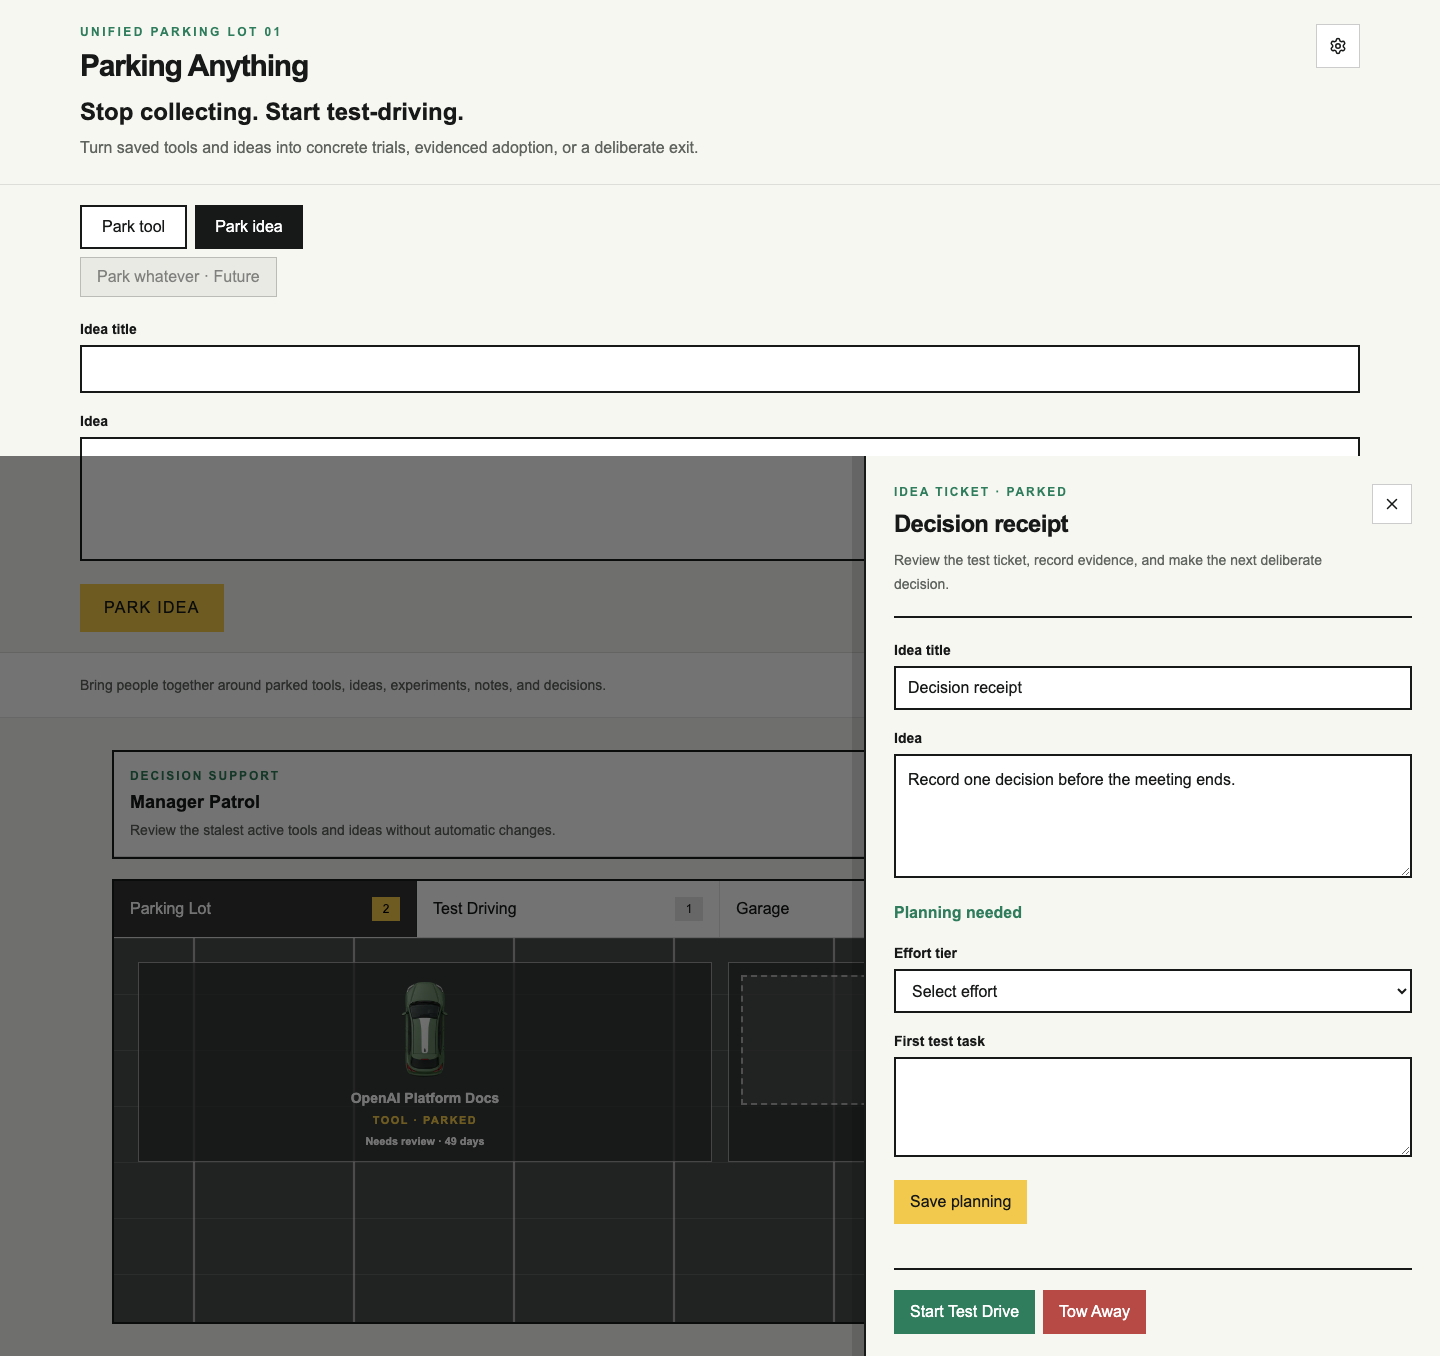
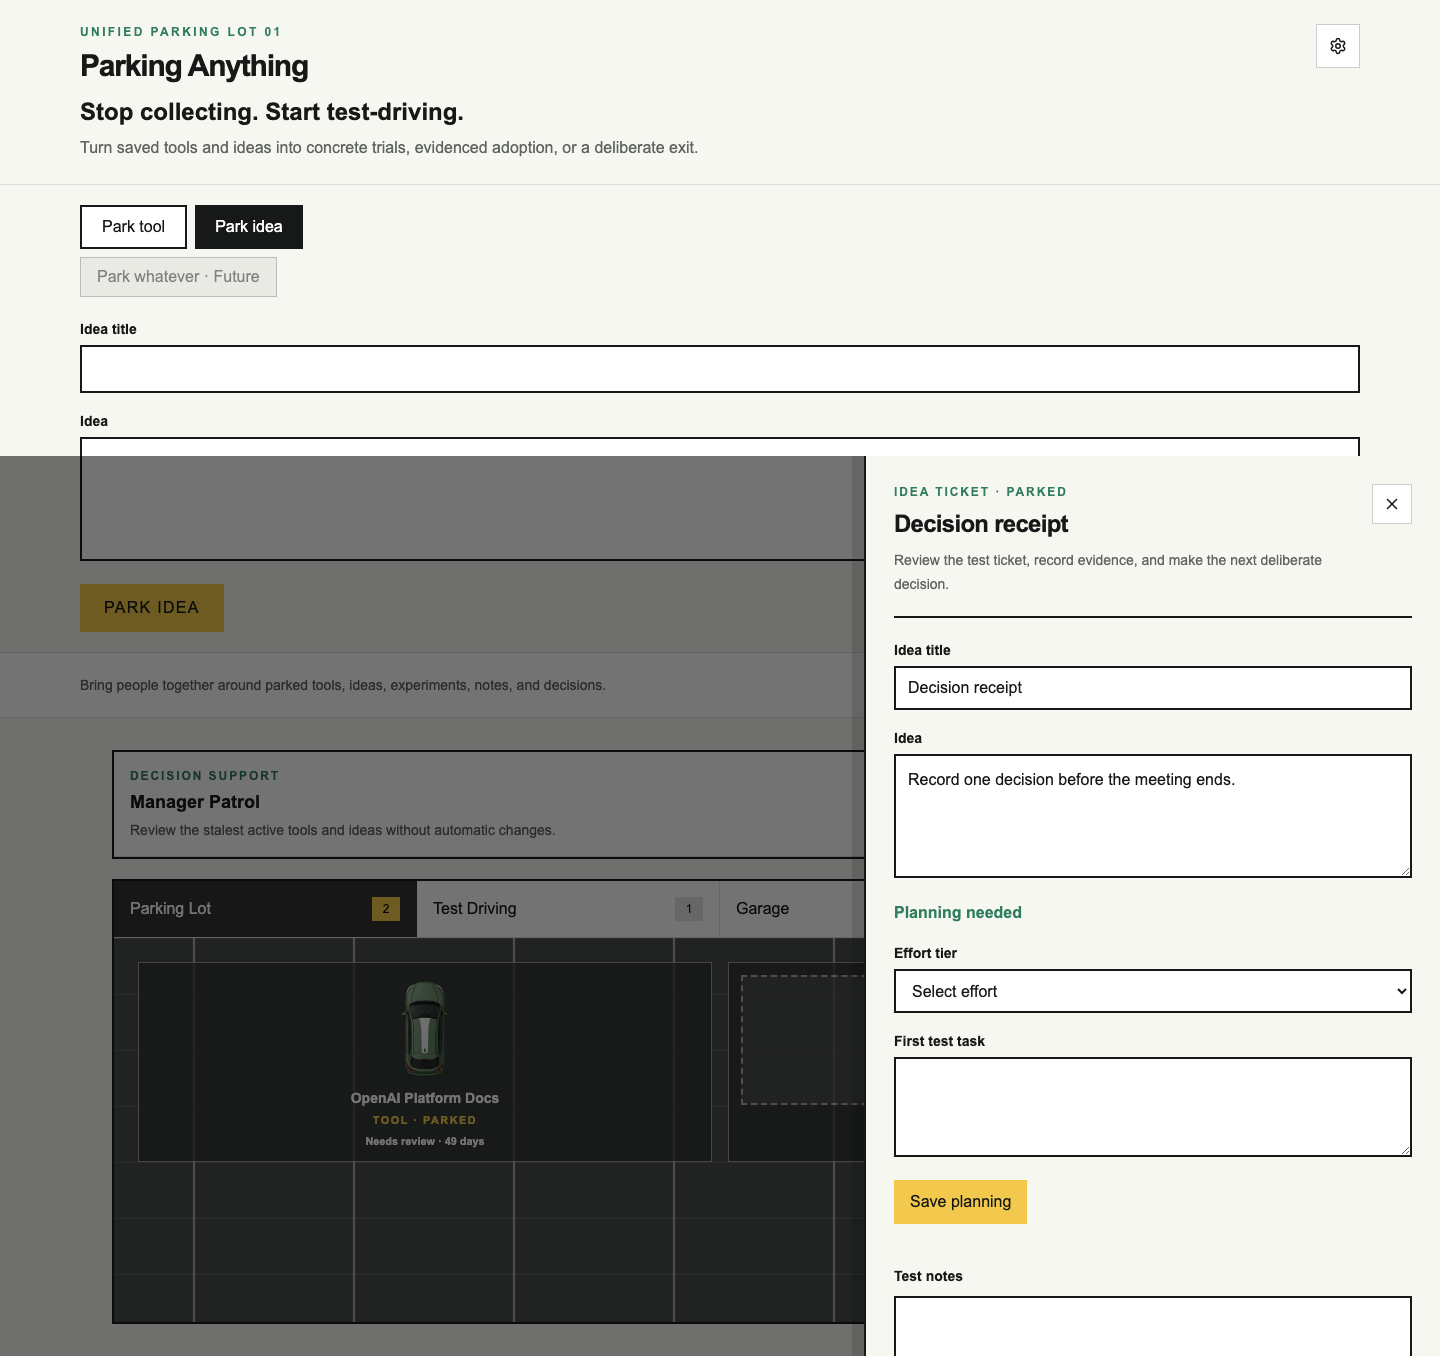
fix: edit parked idea evidence

Changed region(s): [[0.5938, 0.9292, 0.8125, 0.9912]]

diff --git a/src/components/parking/item-inspector.test.tsx b/src/components/parking/item-inspector.test.tsx
@@ -15,16 +15,18 @@ const evidenceFreeDrive: ParkingItem = {
 function renderInspector(
   item: ParkingItem,
   onApplyAction = vi.fn().mockReturnValue({ ok: true }),
+  onUpdateEvidence = vi.fn().mockReturnValue({ ok: true }),
 ) {
   return {
     onApplyAction,
+    onUpdateEvidence,
     ...render(
       <ItemInspector
         item={item}
         open
         onOpenChange={vi.fn()}
         onApplyAction={onApplyAction}
-        onUpdateEvidence={vi.fn().mockReturnValue({ ok: true })}
+        onUpdateEvidence={onUpdateEvidence}
         onUpdateIdea={vi.fn().mockReturnValue({ ok: true })}
       />,
     ),
@@ -98,6 +100,32 @@ describe("ItemInspector", () => {
     expect(screen.getByText("Planning needed")).toBeVisible();
     expect(screen.queryByText("What it appears to do")).not.toBeInTheDocument();
     expect(screen.queryByText("Usefulness hypothesis")).not.toBeInTheDocument();
+  });
+
+  it("edits evidence for a parked Idea while preserving parked Tool behavior", async () => {
+    const user = userEvent.setup();
+    const idea: ParkingItem = {
+      id: "idea-evidence",
+      kind: "idea",
+      status: "parked",
+      title: "Capture evidence early",
+      ideaText: "Record useful context before a formal test starts.",
+      createdAt: "2026-07-20T00:00:00.000Z",
+      updatedAt: "2026-07-20T00:00:00.000Z",
+      lastActivityAt: "2026-07-20T00:00:00.000Z",
+    };
+    const { onUpdateEvidence, unmount } = renderInspector(idea);
+
+    await user.type(screen.getByLabelText("Test notes"), "Early supporting evidence.");
+    await user.tab();
+
+    expect(onUpdateEvidence).toHaveBeenCalledWith("Early supporting evidence.", "");
+    expect(screen.getByLabelText("Result URL")).toBeVisible();
+
+    unmount();
+    renderInspector(makeSeedItems()[0]);
+    expect(screen.queryByLabelText("Test notes")).not.toBeInTheDocument();
+    expect(screen.queryByLabelText("Result URL")).not.toBeInTheDocument();
   });
 
   it("focuses the first missing planning field without starting Test Drive", async () => {

diff --git a/src/components/parking/item-inspector.tsx b/src/components/parking/item-inspector.tsx
@@ -70,6 +70,9 @@ function ItemInspectorContent({ item, open, onOpenChange, onApplyAction, onUpdat
 
   const terminal = item.status === "garaged" || item.status === "scrapped";
   const ideaReady = item.kind !== "idea" || Boolean(item.effortTier && item.suggestedTestTask?.trim());
+  const evidenceEditable =
+    item.status === "test_driving" ||
+    (item.kind === "idea" && item.status === "parked");
 
   function focusMissingPlanning() {
     setValidationMessage("Add an effort tier and first test task before starting a Test Drive.");
@@ -92,7 +95,7 @@ function ItemInspectorContent({ item, open, onOpenChange, onApplyAction, onUpdat
   }
 
   function persistEvidenceIfChanged() {
-    if (item.status !== "test_driving") return;
+    if (!evidenceEditable) return;
     const nextNotes = notes.trim();
     const nextResultUrl = resultUrl.trim();
     if (!validOptionalHttpUrl(nextResultUrl)) {
@@ -167,7 +170,7 @@ function ItemInspectorContent({ item, open, onOpenChange, onApplyAction, onUpdat
             </section>
           )}
 
-          {item.status === "test_driving" ? (
+          {evidenceEditable ? (
             <section className="space-y-4 py-5">
               <div><label htmlFor="test-notes" className="text-sm font-black">Test notes</label><textarea id="test-notes" value={notes} maxLength={2000} rows={5} onChange={(event) => setNotes(event.target.value)} onBlur={persistEvidenceIfChanged} className="mt-2 w-full resize-y border-2 border-[var(--ink)] bg-white p-3" /></div>
               <div><label htmlFor="result-url" className="text-sm font-black">Result URL</label><input id="result-url" type="url" value={resultUrl} maxLength={2048} onChange={(event) => setResultUrl(event.target.value)} onBlur={persistEvidenceIfChanged} className="mt-2 h-11 w-full border-2 border-[var(--ink)] bg-white px-3" /></div>

diff --git a/docs/build-log.md b/docs/build-log.md
@@ -263,3 +263,10 @@ The dedicated event key was entered locally by the user and remained server-only
 - Added a 118-second English judge runbook that demonstrates real GPT-5.6 Tool Structured Outputs, AI-independent Idea capture, same-record planning, mixed Patrol fact/recommendation provenance, shared Garage/Scrapyard outcomes, and the disabled Park whatever/Gather extension points. The `/feedback` Session ID remains human-only submission evidence and is excluded from narration.
 - Ran every documented setup command without exposing secrets: `npm install` completed, `cp -n .env.example .env.local` preserved any existing file, and `npm run dev -- --port 3107` served the v0.5 worktree with HTTP 200. The generated lockfile metadata-only drift from npm was discarded; no dependency version changed.
 - Rehearsed every visible narration action through the verified Tool judge flow and unified Idea visual journey. A fresh README verification gate passed lint, 23 files and 212 unit tests, 25 cross-browser E2E tests with three documented screenshot-only skips, and the production build with both AI routes present.
+
+### 2026-07-20 — v0.5 independent Claude release review and correction
+
+- Used the user-requested ModelNexus Claude reviewer against the complete authoritative spec, plan, and `3d88380..HEAD` implementation. The first read-only review returned `FAIL` for one verified medium spec gap: the store permitted parked-Idea evidence edits, but the inspector rendered notes and Result URL only during Test Drive.
+- Applied RED-GREEN TDD with a parked-Idea evidence regression and parked-Tool non-regression. A shared `evidenceEditable` predicate now governs both rendering and persistence: parked/test-driving Ideas can edit evidence; AI Tools retain their existing Test-Drive-only evidence UI; garaged and scrapped records remain read-only.
+- Focused inspector verification passed 9/9 tests. The complete correction gate passed 23 files and 213 unit tests, lint, 25 applicable desktop/mobile E2E tests with three documented screenshot-only skips, and the production build. Four affected planned/unplanned inspector PNGs were refreshed and visually re-inspected without layout regression.
+- A second read-only Claude review inspected the corrected diff, persistence callback, store compatibility, Tool and terminal boundaries, refreshed screenshots, and test expansion. It returned explicit `PASS` with no release-blocking issues. No GitHub, Vercel, tag, or production operation occurred before that PASS.

diff --git a/docs/qa-checklist.md b/docs/qa-checklist.md
@@ -43,6 +43,7 @@ Inspect initial lot, inspector open, patrol results, Garage filter, and Scrapyar
 - [x] Idea capture -> planning -> Test Drive -> Garage preserves one record and ID.
 - [x] An unplanned Idea can move directly to the shared Scrapyard.
 - [x] Mixed Patrol opens and focuses planning without mutation, then starts Test Drive after valid planning.
+- [x] A parked Idea can edit notes and Result URL while a parked Tool retains the unchanged v0.4 evidence boundary.
 - [x] The complete v0.4 Tool analysis, evidence, Garage, Tow Away, reset, reload, quota, provenance, and accessibility paths still pass.
 - [x] Desktop Chromium and Mobile Safari report no unexpected console or page errors.
 - [x] Every tested state asserts no horizontal page overflow.
@@ -66,3 +67,4 @@ Inspected nine states at 1440x900, 1024x768, and 390x844 under the `v0.5-*` file
 - The initial desktop run correctly exposed one stale keyboard-order assertion after the new capture tabs entered the tab sequence; the corrected order verifies Settings -> active capture tab -> active form input -> submit.
 - Contact sheets were generated outside the repository solely for inspection; release commits contain only the 27 source PNGs.
 - The final combined E2E gate passed 25 tests across desktop Chromium and Mobile Safari with three documented screenshot-only skips: the immutable v0.4 duplicate in both projects and the desktop-owned v0.5 matrix in mobile.
+- After independent Claude review identified the parked-Idea evidence visibility gap, the planned/unplanned inspector screenshots were refreshed and re-inspected at desktop and mobile sizes; the added evidence section remains reachable through the existing inspector scroll with no page overflow.
